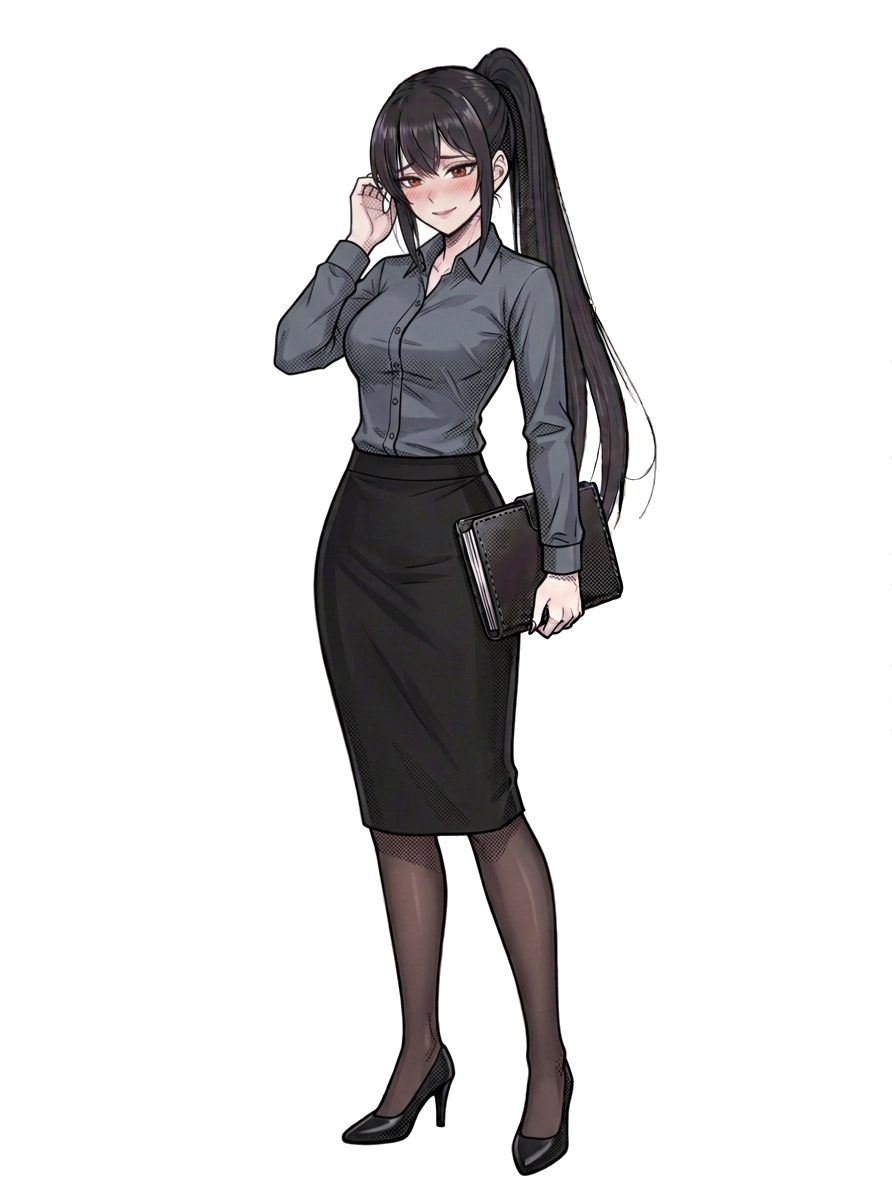
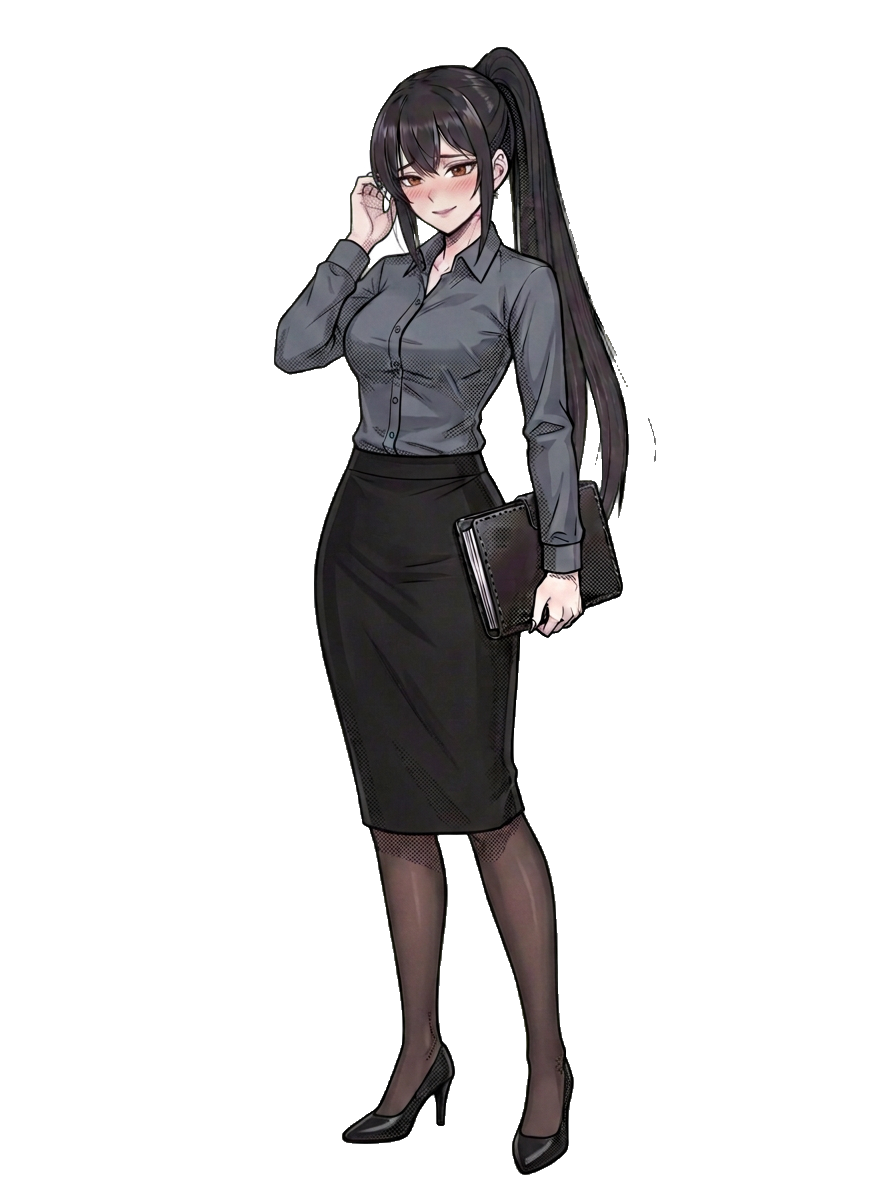
Re-cut Valeria human x5 (amused regenerated with fair skin, soft_vulnerable strand fix) and Lena x5 via chroma key; Lena sprites moved to lena/transparent; ASSET_VER _19

diff --git a/index.html b/index.html
@@ -260,34 +260,34 @@
   </div>
 
   <!-- SCRIPT CHAPTERS -->
-  <script src="vn-config.js?v=20261101_18"></script>
-  <script src="vn-core.js?v=20261101_18"></script>
-  <script src="script/_registry.js?v=20261101_18"></script>
-  <script src="script/prologue_1_morning.js?v=20261101_18"></script>
-  <script src="script/prologue_2_city.js?v=20261101_18"></script>
-  <script src="script/prologue_3_barbershop.js?v=20261101_18"></script>
-  <script src="script/prologue_4_depot.js?v=20261101_18"></script>
-  <script src="script/prologue_5_crash.js?v=20261101_18"></script>
-  <script src="script/day1_1_mirael.js?v=20261101_18"></script>
-  <script src="script/day1_2_valeria.js?v=20261101_18"></script>
-  <script src="script/day1_3_evening.js?v=20261101_18"></script>
-  <script src="script/day2_1_quit.js?v=20261101_18"></script>
-  <script src="script/day2_2_zero.js?v=20261101_18"></script>
-  <script src="script/day2_3_walk.js?v=20261101_18"></script>
-  <script src="script/day3_1_office.js?v=20261101_18"></script>
-  <script src="script/day3_2_nika.js?v=20261101_18"></script>
-  <script src="script/day3_3_home.js?v=20261101_18"></script>
-  <script src="script/day4_1_free.js?v=20261101_18"></script>
-  <script src="script/day4_2_barbershop.js?v=20261101_18"></script>
-  <script src="script/day4_3_home.js?v=20261101_18"></script>
-  <script src="script/day5_1_artyom.js?v=20261101_18"></script>
-  <script src="script/day5_2_elevator.js?v=20261101_18"></script>
-  <script src="script/day5_3_night.js?v=20261101_18"></script>
-  <script src="script/day6_1_morning.js?v=20261101_18"></script>
-  <script src="script/day6_2_squeeze.js?v=20261101_18"></script>
-  <script src="script/day6_3_taya.js?v=20261101_18"></script>
-  <script src="script/day7_1_voices.js?v=20261101_18"></script>
-  <script src="script/day7_2_stairs.js?v=20261101_18"></script>
-  <script src="engine.js?v=20261101_18"></script>
+  <script src="vn-config.js?v=20261101_19"></script>
+  <script src="vn-core.js?v=20261101_19"></script>
+  <script src="script/_registry.js?v=20261101_19"></script>
+  <script src="script/prologue_1_morning.js?v=20261101_19"></script>
+  <script src="script/prologue_2_city.js?v=20261101_19"></script>
+  <script src="script/prologue_3_barbershop.js?v=20261101_19"></script>
+  <script src="script/prologue_4_depot.js?v=20261101_19"></script>
+  <script src="script/prologue_5_crash.js?v=20261101_19"></script>
+  <script src="script/day1_1_mirael.js?v=20261101_19"></script>
+  <script src="script/day1_2_valeria.js?v=20261101_19"></script>
+  <script src="script/day1_3_evening.js?v=20261101_19"></script>
+  <script src="script/day2_1_quit.js?v=20261101_19"></script>
+  <script src="script/day2_2_zero.js?v=20261101_19"></script>
+  <script src="script/day2_3_walk.js?v=20261101_19"></script>
+  <script src="script/day3_1_office.js?v=20261101_19"></script>
+  <script src="script/day3_2_nika.js?v=20261101_19"></script>
+  <script src="script/day3_3_home.js?v=20261101_19"></script>
+  <script src="script/day4_1_free.js?v=20261101_19"></script>
+  <script src="script/day4_2_barbershop.js?v=20261101_19"></script>
+  <script src="script/day4_3_home.js?v=20261101_19"></script>
+  <script src="script/day5_1_artyom.js?v=20261101_19"></script>
+  <script src="script/day5_2_elevator.js?v=20261101_19"></script>
+  <script src="script/day5_3_night.js?v=20261101_19"></script>
+  <script src="script/day6_1_morning.js?v=20261101_19"></script>
+  <script src="script/day6_2_squeeze.js?v=20261101_19"></script>
+  <script src="script/day6_3_taya.js?v=20261101_19"></script>
+  <script src="script/day7_1_voices.js?v=20261101_19"></script>
+  <script src="script/day7_2_stairs.js?v=20261101_19"></script>
+  <script src="engine.js?v=20261101_19"></script>
 </body>
 </html>

diff --git a/vn-config.js b/vn-config.js
@@ -65,7 +65,7 @@
       fallback: "neutral"
     },
     lena: {
-      emotions: set(C + "lena_{e}.png", ["happy", "neutral", "sad", "snide", "tired", "angry", "surprised", "thoughtful", "coffee", "shy"]),
+      emotions: set(C + "lena/transparent/lena_{e}.png", ["happy", "neutral", "sad", "snide", "tired", "angry", "surprised", "thoughtful", "coffee", "shy"]),
       aliases: {},
       fallback: "tired"
     },

diff --git a/engine.js b/engine.js
@@ -1,6 +1,6 @@
 // ДВИЖОК ВИЗУАЛЬНОЙ НОВЕЛЛЫ «НЕ СМОТРИ НА НЕБО» ($WAG ENTERTAINMENT)
 (function () {
-  const ASSET_VER = "20261101_18";
+  const ASSET_VER = "20261101_19";
 
   function withVer(url) {
     if (!url) return "";

diff --git a/docs/production/assets.md b/docs/production/assets.md
@@ -128,8 +128,9 @@
 | Саша: shy, shocked_terrified, куртка ×7 (shocked*, surprised*), courier_rain | ✅ 01.11 — **Саша закрыт целиком, 20/20** |
 | Мираэль: ангел ×8, человек ×8 (`--neutral-despill`) | ✅ 01.11 — у крыльев вернулись перья, открыты просветы между прядями |
 | Валерия, истинный облик ×9 (`--neutral-despill`) | ✅ 01.11 |
-| Валерия, human: neutral, amused, angry, cold_serious, contract | ✅ 01.11 (amused: генератор затемнил кожу, цвет внутри фигуры перенесён из оригинала, маска и края от зелёной версии) |
-| Валерия, human: playful_smile, soft_vulnerable, surprised, thoughtful | ⏳ |
-| Лена ×10, Ника ×8, Дмитрий ×5 | ⏳ |
+| Валерия, human ×9 | ✅ 01.11 (amused перегенерирован с требованием светлой кожи; soft_vulnerable: прядь за пальцами восстановлена по оригиналу) |
+| Лена: angry, coffee, happy, neutral, sad → `lena/transparent/` | ✅ 01.11 (вход — RGBA из корня на белом, большие уменьшены до 896×1200) |
+| Лена: snide, tired, surprised, thoughtful, shy | ⏳ (пока в `lena/transparent/` лежат старые копии из корня) |
+| Ника ×8, Дмитрий ×5 | ⏳ |
 | Тая | ждём новый дефолтный спрайт от автора |
 
